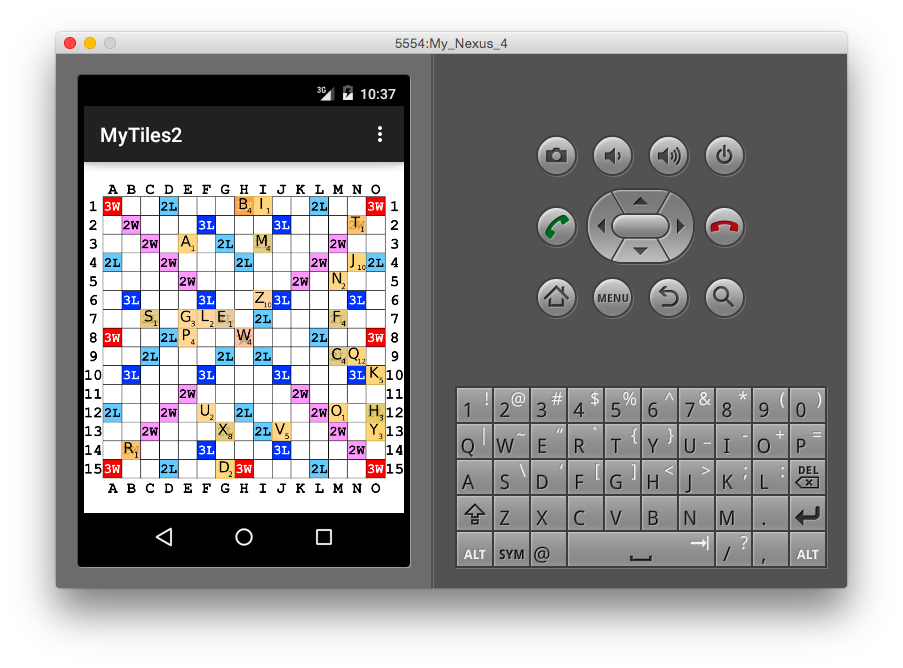
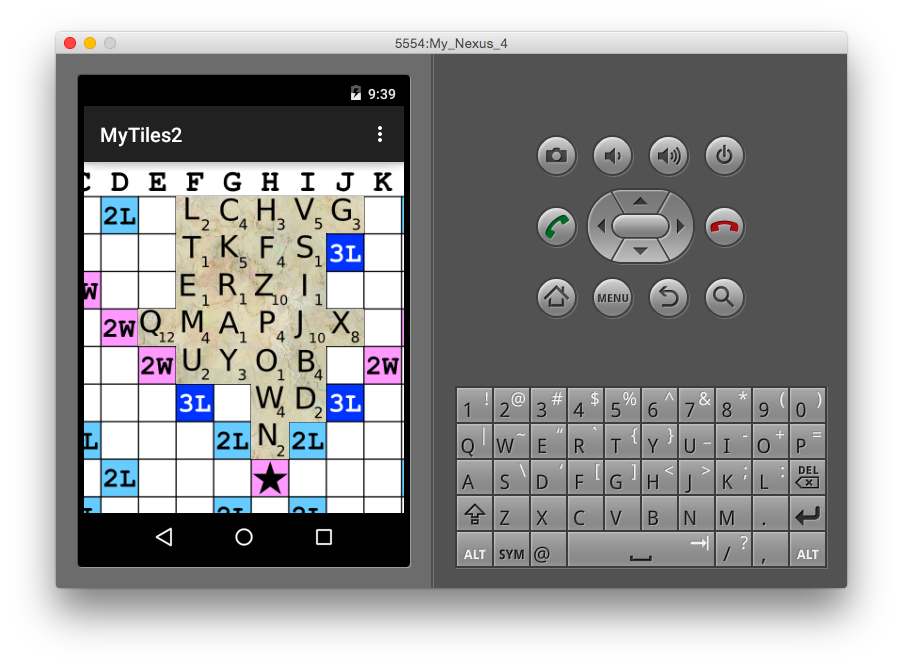
Use seamless tile texture

Changed region(s): [[0.093, 0.2395, 0.4651, 0.7784], [0.3411, 0.1198, 0.4341, 0.1497]]

diff --git a/MyTiles2/src/de/afarber/mytiles2/MyView.java b/MyTiles2/src/de/afarber/mytiles2/MyView.java
@@ -8,13 +8,13 @@ import android.content.Context;
 import android.content.res.Resources;
 import android.graphics.Bitmap;
 import android.graphics.BitmapFactory;
+import android.graphics.BitmapShader;
 import android.graphics.Canvas;
-import android.graphics.Color;
 import android.graphics.Matrix;
 import android.graphics.Paint;
 import android.graphics.PorterDuff;
 import android.graphics.PorterDuffXfermode;
-import android.graphics.RadialGradient;
+import android.graphics.Shader;
 import android.graphics.drawable.Drawable;
 import android.os.Build;
 import android.support.v4.widget.ScrollerCompat;
@@ -128,6 +128,7 @@ public class MyView extends View {
 		mPaint = new Paint(Paint.ANTI_ALIAS_FLAG);
 		//mPaint.setColor(Color.argb(0xCC, 0xFF, 0xCC, 0));		        		
 		//mPaint.setShadowLayer(10, 3, 3, Color.GRAY);
+		/*
 		RadialGradient gradient = new RadialGradient(
 				mWidth / 2, 
 				mHeight / 2, 
@@ -136,7 +137,14 @@ public class MyView extends View {
 				0xCCFFCC00,
 		        android.graphics.Shader.TileMode.CLAMP);
 		mPaint.setShader(gradient);
+		*/
 		
+        //Initialize the bitmap object by loading an image from the resources folder  
+        Bitmap fill = BitmapFactory.decodeResource(context.getResources(), R.drawable.tile);  
+        //Initialize the BitmapShader with the Bitmap object and set the texture tile mode  
+        BitmapShader fillShader = new BitmapShader(fill, Shader.TileMode.REPEAT, Shader.TileMode.REPEAT);  
+        mPaint.setShader(fillShader);
+
         // there are 15 cells in a row and 1 padding at each side
         SmallTile.sCellWidth = Math.round(mWidth / 17.0f);
     }
